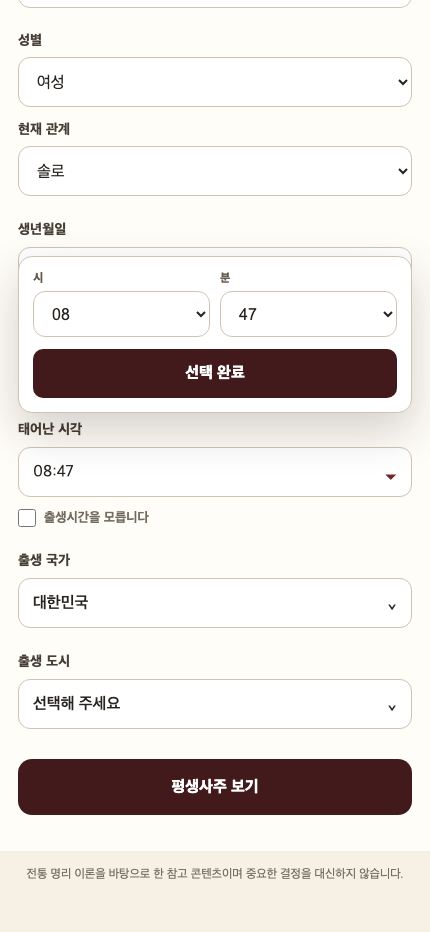
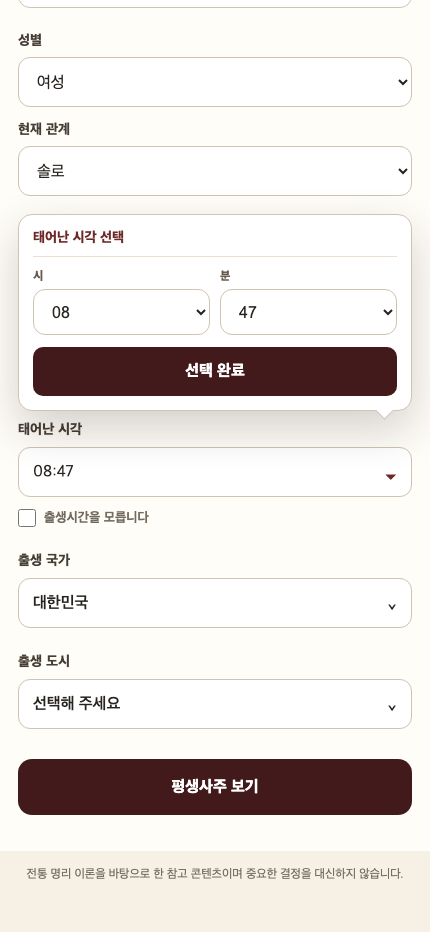
style: clarify mobile date and time pickers

diff --git a/src/app/globals.css b/src/app/globals.css
@@ -224,7 +224,7 @@ button:focus-visible,summary:focus-visible,input:focus-visible,select:focus-visi
 .inputBook>header span { color:#e3c394; font-size:12px; font-weight:850; letter-spacing:.16em; }.inputBook>header h1 { margin:12px 0; font:700 clamp(38px,8vw,56px)/1.12 Georgia,"Noto Serif KR",serif; }.inputBook>header p { margin:0; color:#f1e4da; font-size:16px; line-height:1.7; }
 .inputBook form { padding:36px 42px 42px; gap:24px; }.field,.searchSelect { position:relative; min-width:0; }.field>label,.searchSelect>label,.field:not(div) { color:#463d35; font-size:14px; font-weight:800; }.field input,.field select,.selectTrigger { width:100%; min-height:50px; margin-top:8px; padding:12px 14px; color:var(--book-ink); background:#fff; border:1px solid #cfc3b4; border-radius:12px; font-size:16px; outline:none; }.field input:focus,.field select:focus,.selectTrigger:focus-visible,.selectSearch:focus { border-color:var(--wine); box-shadow:0 0 0 3px rgba(109,41,40,.12); }.formGrid { display:grid; grid-template-columns:1fr 1fr; gap:14px; }
 .searchSelect .selectTrigger { display:flex; align-items:center; justify-content:space-between; color:var(--book-ink); font-weight:600; text-align:left; }.selectMenu { position:absolute; z-index:50; top:calc(100% + 7px); left:0; width:max(100%,260px); max-width:min(420px,calc(100vw - 32px)); padding:8px; background:#fff; border:1px solid #cfc3b4; border-radius:14px; box-shadow:0 18px 45px rgba(38,27,21,.2); }.opensAbove .selectMenu { top:auto; bottom:calc(100% + 7px); }.selectSearch { position:sticky; z-index:1; top:0; width:100%; min-height:46px; margin:0 0 7px; padding:10px 12px; background:#fff; border:1px solid #d8cec2; border-radius:9px; font-size:16px; }.selectMenu>[role=listbox] { max-height:300px; overflow-y:auto; overscroll-behavior:contain; }.selectMenu [role=option] { display:block; width:100%; min-height:44px; padding:10px 12px; color:var(--book-ink); background:transparent; border-radius:8px; font-weight:650; text-align:left; }.selectMenu [role=option].active,.selectMenu [role=option][aria-selected=true] { color:var(--wine); background:#f6ece8; }.selectMenu p { padding:10px; color:var(--book-muted); font-size:13px; }
-.fieldError,.fieldNotice { margin:7px 0 0; font-size:13px; line-height:1.55; }.fieldError { color:#9c2828; }.fieldNotice { padding:10px 12px; color:#644f3f; background:#f7efe3; border-radius:9px; }.hybridInputShell { position:relative; margin-top:8px; }.hybridInputShell input { margin-top:0; padding-right:52px; }.pickerTrigger { position:absolute; top:3px; right:3px; width:44px; height:44px; color:var(--wine); background:transparent; border-radius:10px; font-size:18px; }.pickerTrigger:focus-visible,.pickerDone:focus-visible { outline:3px solid rgba(109,41,40,.2); outline-offset:1px; }.pickerMenu { position:absolute; z-index:60; top:calc(100% + 7px); left:0; width:100%; min-width:min(360px,calc(100vw - 36px)); padding:14px; background:#fff; border:1px solid #cfc3b4; border-radius:14px; box-shadow:0 18px 45px rgba(38,27,21,.2); }.hybridPicker.opensAbove .pickerMenu { top:auto; bottom:calc(100% + 7px); }.datePickerGrid { display:grid; grid-template-columns:1.35fr 1fr 1fr; gap:8px; }.timePickerGrid { display:grid; grid-template-columns:1fr 1fr; gap:10px; }.datePickerGrid label,.timePickerGrid label { color:#675b50; font-size:12px; font-weight:800; }.datePickerGrid select,.timePickerGrid select { min-height:46px; margin-top:5px; }.pickerDone { width:100%; min-height:44px; margin-top:12px; color:#fff; background:var(--wine-dark); border-radius:10px; font-weight:800; }.calendarFields { align-items:start; }.unknownTime { display:flex; align-items:center; gap:8px; margin-top:12px; color:var(--book-muted); font-size:13px; }.unknownTime input { width:18px; min-height:18px; margin:0; accent-color:var(--wine); }.submitStory { min-height:56px; margin-top:6px; color:#fff; background:var(--wine-dark); border-radius:14px; font-size:16px; }.submitStory:hover { background:var(--wine); }.inputDisclaimer { max-width:720px; margin:16px auto 0; color:#776d62; font-size:12px; text-align:center; }
+.fieldError,.fieldNotice { margin:7px 0 0; font-size:13px; line-height:1.55; }.fieldError { color:#9c2828; }.fieldNotice { padding:10px 12px; color:#644f3f; background:#f7efe3; border-radius:9px; }.hybridInputShell { position:relative; margin-top:8px; }.hybridInputShell input { margin-top:0; padding-right:52px; }.pickerTrigger { position:absolute; top:3px; right:3px; width:44px; height:44px; color:var(--wine); background:transparent; border-radius:10px; font-size:18px; }.pickerTrigger:focus-visible,.pickerDone:focus-visible { outline:3px solid rgba(109,41,40,.2); outline-offset:1px; }.pickerMenu { position:absolute; z-index:60; top:calc(100% + 9px); left:0; width:100%; min-width:min(360px,calc(100vw - 36px)); padding:14px; background:#fff; border:1px solid #cfc3b4; border-radius:14px; box-shadow:0 18px 45px rgba(38,27,21,.2); }.pickerMenu::before { position:absolute; top:-7px; right:20px; width:12px; height:12px; content:""; background:#fff; border-top:1px solid #cfc3b4; border-left:1px solid #cfc3b4; transform:rotate(45deg); }.hybridPicker.opensAbove .pickerMenu { top:auto; bottom:calc(100% + 9px); }.hybridPicker.opensAbove .pickerMenu::before { top:auto; bottom:-7px; border:0; border-right:1px solid #cfc3b4; border-bottom:1px solid #cfc3b4; }.pickerContext { margin:0 0 12px; padding-bottom:10px; color:var(--wine); border-bottom:1px solid #eadfd2; font-size:14px; font-weight:850; letter-spacing:-.01em; }.datePickerGrid { display:grid; grid-template-columns:1.35fr 1fr 1fr; gap:8px; }.timePickerGrid { display:grid; grid-template-columns:1fr 1fr; gap:10px; }.datePickerGrid label,.timePickerGrid label { color:#675b50; font-size:12px; font-weight:800; }.datePickerGrid select,.timePickerGrid select { min-height:46px; margin-top:5px; }.pickerDone { width:100%; min-height:44px; margin-top:12px; color:#fff; background:var(--wine-dark); border-radius:10px; font-weight:800; }.calendarFields { align-items:start; }.unknownTime { display:flex; align-items:center; gap:8px; margin-top:12px; color:var(--book-muted); font-size:13px; }.unknownTime input { width:18px; min-height:18px; margin:0; accent-color:var(--wine); }.submitStory { min-height:56px; margin-top:6px; color:#fff; background:var(--wine-dark); border-radius:14px; font-size:16px; }.submitStory:hover { background:var(--wine); }.inputDisclaimer { max-width:720px; margin:16px auto 0; color:#776d62; font-size:12px; text-align:center; }
 .lifetimeReport { min-height:100vh; overflow-x:hidden; color:var(--book-ink); background:var(--book); }.lifetimeCover { min-height:86vh; padding:32px max(22px,calc((100vw - 1040px)/2)) 70px; color:#fff8ee; background:linear-gradient(155deg,#321718,#5f2828 62%,#7a3832); }.coverTop { display:flex; align-items:center; justify-content:space-between; }.coverTop>b { color:#e0ba7d; letter-spacing:.2em; }.coverTop button { min-height:44px; padding:9px 14px; background:transparent; border:1px solid rgba(255,255,255,.35); }.sunMark { position:relative; width:120px; height:120px; margin:9vh 0 24px; }.sunMark i { position:absolute; inset:10px; background:#c79f59; border-radius:50%; box-shadow:0 0 70px rgba(220,175,88,.35); }.sunMark span { position:absolute; inset:0; border:1px solid rgba(231,199,142,.45); border-radius:50%; }.lifetimeCover>p { color:#dfbd89; font-size:13px; font-weight:850; letter-spacing:.2em; }.lifetimeCover h1 { max-width:820px; margin:16px 0; font:700 clamp(48px,8vw,84px)/1.08 Georgia,"Noto Serif KR",serif; letter-spacing:-.045em; word-break:keep-all; }.lifetimeCover h2 { max-width:760px; margin:26px 0 12px; font-size:clamp(20px,3vw,30px); line-height:1.5; word-break:keep-all; }.lifetimeCover>span { color:#dccfc3; font-size:15px; }
 .chapterNav { position:sticky; z-index:20; top:0; display:flex; gap:6px; padding:10px max(10px,calc((100vw - 1040px)/2)); overflow-x:auto; background:rgba(246,240,229,.95); border-bottom:1px solid #d9cebe; backdrop-filter:blur(12px); scrollbar-width:none; }.chapterNav a { display:grid; flex:0 0 40px; min-height:40px; place-items:center; color:#5e5147; background:#fff; border:1px solid #ded2c3; border-radius:50%; font:700 11px Georgia,serif; text-decoration:none; }.chapterNav a:focus-visible { outline:3px solid #b86f5c; outline-offset:2px; }
 .lifetimeReport main { width:min(100% - 28px,1040px); margin:auto; padding:38px 0 90px; }.lifetimeChapter { margin-bottom:24px; padding:clamp(30px,6vw,64px); background:var(--book-card); border:1px solid #e1d6c7; border-radius:28px; box-shadow:0 12px 42px rgba(58,43,31,.055); scroll-margin-top:68px; }.lifetimeChapter.ink { color:#fff; background:#26231f; }.lifetimeChapter.wine { color:#fff7ed; background:var(--wine-dark); }.chapterRule { display:flex; align-items:center; gap:14px; }.chapterRule span { color:var(--wine); font:700 13px Georgia,serif; }.wine .chapterRule span { color:#e1b981; }.chapterRule i { width:70px; height:1px; background:#bca98d; }.chapterTitle { margin:14px 0 4px; color:#796d61; font-size:13px; font-weight:850; letter-spacing:.06em; }.wine .chapterTitle { color:#d8ba93; }.lifetimeChapter h2 { max-width:780px; margin:12px 0 18px; font:700 clamp(30px,5vw,48px)/1.3 Georgia,"Noto Serif KR",serif; letter-spacing:-.035em; word-break:keep-all; }.chapterLead { max-width:720px; color:var(--book-muted); font-size:18px; line-height:1.8; word-break:keep-all; }.longCopy { max-width:740px; margin-top:26px; }.longCopy p { margin:0 0 18px; font-size:17px; line-height:1.92; word-break:keep-all; }.overviewLines { margin-top:30px; border-block:1px solid #ded4c6; }.overviewLines p { display:grid; grid-template-columns:180px 1fr; gap:20px; margin:0; padding:19px 0; border-bottom:1px solid #e9e1d7; }.overviewLines p:last-child { border:0; }.overviewLines b { color:var(--wine); font-size:13px; }.overviewLines span { line-height:1.7; }

diff --git a/tests/customer-lifetime-ui-v2.spec.ts b/tests/customer-lifetime-ui-v2.spec.ts
@@ -27,6 +27,7 @@ describe("CUSTOMER_LIFETIME_UI_V2 input", () => {
   it("renders exactly one editable date field and one editable time field",()=>{const html=renderToStaticMarkup(createElement(SajuInputForm,{onResult:()=>{}}));expect(html.match(/data-testid="birth-date-input"/g)).toHaveLength(1);expect(html.match(/data-testid="birth-time-input"/g)).toHaveLength(1);expect(html).not.toContain('type="date"');expect(html).not.toContain("직접 입력하기");expect(html).not.toContain("입력 모드");});
   it("provides all 24 hours and 60 minutes inside the one time picker", async()=>{const source=await timeSource();expect(source).toContain("length: 24");expect(source).toContain("length: 60");expect(source).toContain('placeholder="0829 또는 08:29"');expect(source).toContain('aria-label="출생 분"');});
   it("keeps date and time pickers anchored to their shared input field",async()=>{const date=await dateSource(),time=await timeSource();for(const source of [date,time]){expect(source).toContain('className="hybridInputShell"');expect(source).toContain('className="pickerMenu"');expect(source).toContain("getBoundingClientRect");expect(source).toContain("innerHeight - rect.bottom");expect(source).toContain("aria-expanded");}});
+  it("names each picker in customer language when it flips above",async()=>{const date=await dateSource(),time=await timeSource(),css=await readFile("src/app/globals.css","utf8");expect(date).toContain("생년월일 선택</p>");expect(time).toContain("태어난 시각 선택</p>");expect(date).toContain("picker-title");expect(time).toContain("picker-title");expect(css).toContain(".pickerMenu::before");expect(css).toContain(".hybridPicker.opensAbove .pickerMenu::before");});
   it("keeps the requested customer input order",()=>{const html=renderToStaticMarkup(createElement(SajuInputForm,{onResult:()=>{}}));const labels=["이름","성별","현재 관계","생년월일","달력","태어난 시각","출생 국가","출생 도시"];const positions=labels.map(label=>html.indexOf(label));expect(positions.every(position=>position>=0)).toBe(true);expect(positions).toEqual([...positions].sort((a,b)=>a-b));});
   it("shows leap-month controls only in lunar state source and blocks unsupported lunar submission",async()=>{const source=await formSource();expect(source).toContain('form.calendarType === "lunar"');expect(source).toContain("윤달 여부");expect(source).toContain("평달");expect(source).toContain("윤달");expect(source).toContain("현재 음력 계산은 준비 중입니다.");});
   it("blocks unsupported country and incomplete lunar mode", async()=>{const source=await formSource();expect(source).toContain("현재 해외 출생 계산은 지원되지 않습니다.");expect(source).toContain("음력 계산은 준비 중입니다.");});

diff --git a/src/components/HybridTimeField.tsx b/src/components/HybridTimeField.tsx
@@ -21,7 +21,8 @@ export function HybridTimeField({ value, onChange, error, onError }: { value: st
       <input id={`${id}-input`} data-testid="birth-time-input" inputMode="numeric" autoComplete="bday-time" value={value} onChange={(event) => type(event.target.value)} onBlur={commit} placeholder="0829 또는 08:29" aria-invalid={Boolean(error)} aria-describedby={error ? `${id}-error` : undefined} />
       <button ref={trigger} type="button" className="pickerTrigger" aria-label="태어난 시각 선택 열기" aria-haspopup="dialog" aria-expanded={open} aria-controls={`${id}-picker`} onMouseDown={(event) => event.preventDefault()} onClick={() => open ? setOpen(false) : show()}><span aria-hidden="true">▾</span></button>
     </div>
-    {open && <div id={`${id}-picker`} className="pickerMenu" role="group" aria-labelledby={`${id}-label`}>
+    {open && <div id={`${id}-picker`} className="pickerMenu" role="group" aria-labelledby={`${id}-picker-title`}>
+      <p id={`${id}-picker-title`} className="pickerContext">태어난 시각 선택</p>
       <div className="timePickerGrid">
         <label>시<select aria-label="출생 시" value={parts.hour} onChange={(event) => choose("hour", event.target.value)}>{hours.map((hour) => <option key={hour}>{hour}</option>)}</select></label>
         <label>분<select aria-label="출생 분" value={parts.minute} onChange={(event) => choose("minute", event.target.value)}>{minutes.map((minute) => <option key={minute}>{minute}</option>)}</select></label>

diff --git a/src/components/HybridDateField.tsx b/src/components/HybridDateField.tsx
@@ -22,7 +22,8 @@ export function HybridDateField({ value, onChange, error, onError }: { value: st
       <input id={`${id}-input`} data-testid="birth-date-input" inputMode="numeric" autoComplete="bday" value={value} onChange={(event) => type(event.target.value)} onBlur={commit} placeholder="19950930 또는 1995-09-30" aria-invalid={Boolean(error)} aria-describedby={error ? `${id}-error` : undefined} />
       <button ref={trigger} type="button" className="pickerTrigger" aria-label="생년월일 선택 열기" aria-haspopup="dialog" aria-expanded={open} aria-controls={`${id}-picker`} onMouseDown={(event) => event.preventDefault()} onClick={() => open ? setOpen(false) : show()}><span aria-hidden="true">▾</span></button>
     </div>
-    {open && <div id={`${id}-picker`} className="pickerMenu" role="group" aria-labelledby={`${id}-label`}>
+    {open && <div id={`${id}-picker`} className="pickerMenu" role="group" aria-labelledby={`${id}-picker-title`}>
+      <p id={`${id}-picker-title`} className="pickerContext">생년월일 선택</p>
       <div className="datePickerGrid">
         <label>연<select aria-label="출생 연" value={parts.year} onChange={(event) => choose("year", event.target.value)}>{years.map((year) => <option key={year}>{year}</option>)}</select></label>
         <label>월<select aria-label="출생 월" value={parts.month} onChange={(event) => choose("month", event.target.value)}>{months.map((month) => <option key={month}>{month}</option>)}</select></label>
